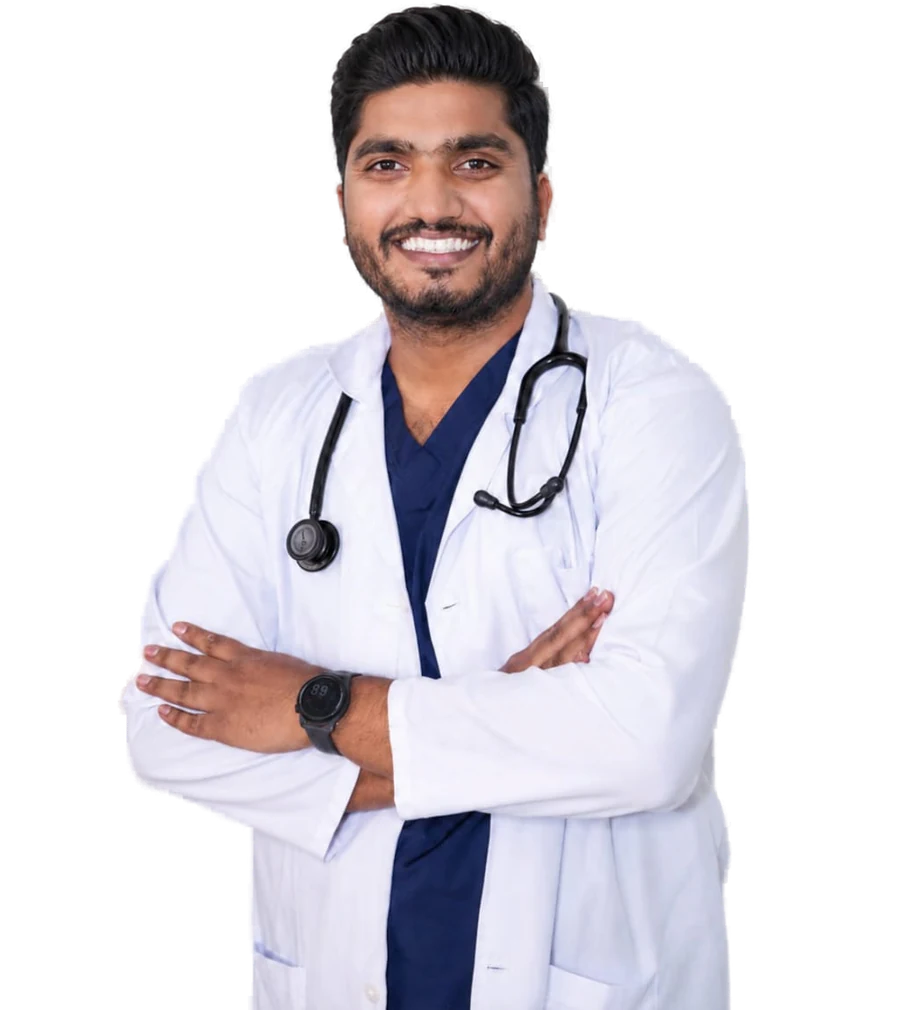
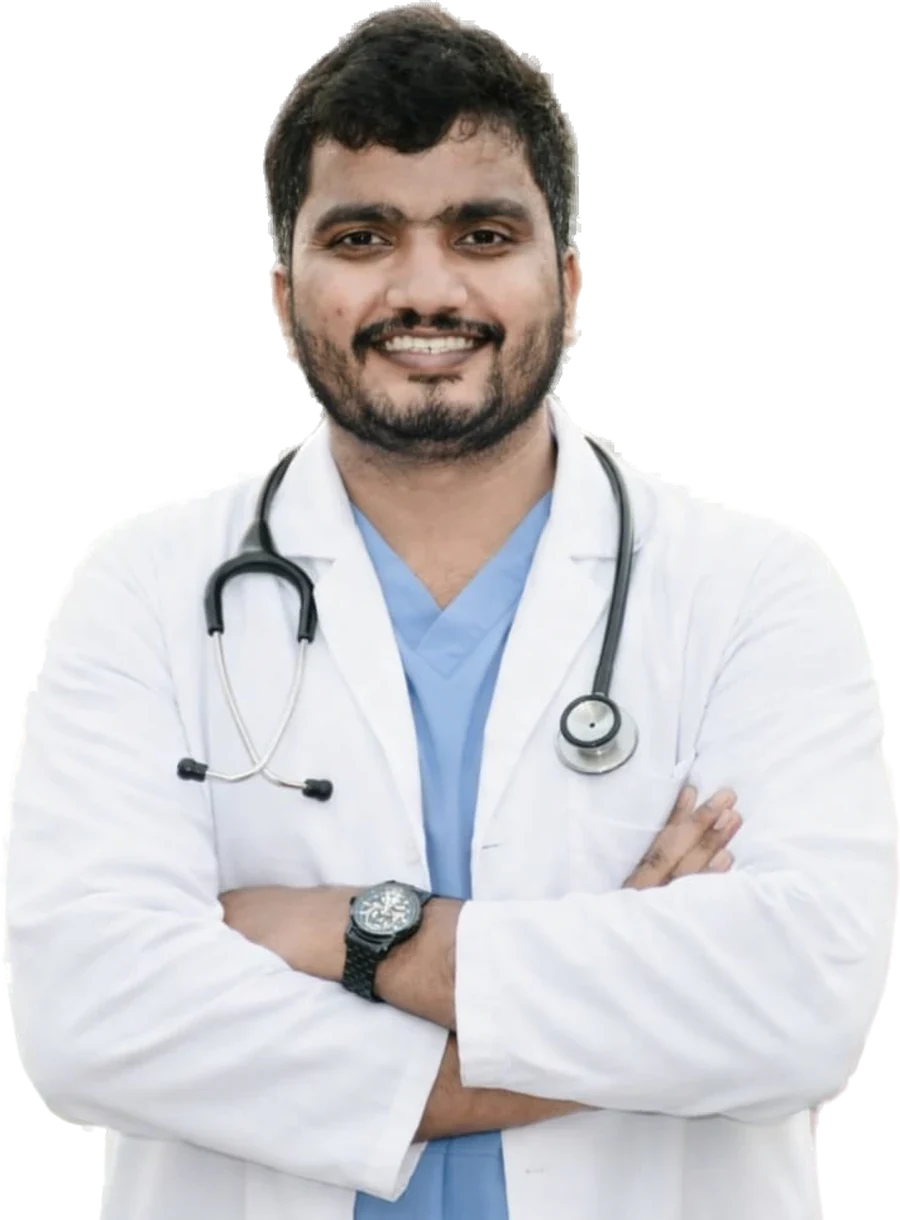
v11

diff --git a/index.html b/index.html
@@ -339,14 +339,14 @@
   @media (min-width: 1024px) and (max-height: 820px) { .hero-facts { display: none; } }
 
   /* Portrait: cut-out photo inside a full-height soft blue panel */
-  .portrait { position: relative; aspect-ratio: 900 / 1010; width: min(100%, 360px); margin-inline: auto; isolation: isolate; }
+  .portrait { position: relative; aspect-ratio: 900 / 1250; width: min(100%, 360px); margin-inline: auto; isolation: isolate; }
   @media (min-width: 640px) { .portrait { width: min(100%, 420px); } }
   @media (min-width: 1024px) { .portrait { width: auto; height: min(60svh, 620px); margin-right: 0; } }
   @media (min-width: 1024px) and (min-height: 960px) { .portrait { height: min(68svh, 760px); } }
   .p-panel { position: absolute; inset: 0; height: 100%; border-radius: 36px; overflow: hidden; z-index: 0;
     background: linear-gradient(165deg, #EEF4FA 0%, #D8E5F2 100%); animation: panelIn .9s cubic-bezier(.2,.8,.2,1) both; }
   .p-panel::before { content: ""; position: absolute; inset: 0; background-image: radial-gradient(rgba(14,42,71,.10) 1.2px, transparent 1.3px); background-size: 18px 18px; -webkit-mask-image: linear-gradient(to bottom, #000 0%, transparent 70%); mask-image: linear-gradient(to bottom, #000 0%, transparent 70%); }
-  .p-img { position: absolute; z-index: 2; left: 50%; bottom: 0; width: 88%; height: auto; transform: translateX(-50%); -webkit-mask-image: linear-gradient(to bottom, #000 88%, transparent 100%); mask-image: linear-gradient(to bottom, #000 88%, transparent 100%); animation: photoUp 1s cubic-bezier(.2,.8,.2,1) .2s both; }
+  .p-img { position: absolute; z-index: 2; left: 50%; bottom: 0; width: 90%; height: auto; transform: translateX(-50%); -webkit-mask-image: linear-gradient(to bottom, #000 88%, transparent 100%); mask-image: linear-gradient(to bottom, #000 88%, transparent 100%); animation: photoUp 1s cubic-bezier(.2,.8,.2,1) .2s both; }
   .p-caption { position: absolute; z-index: 3; left: 14px; right: 14px; bottom: 14px; display: flex; align-items: center; gap: 12px; padding: 10px 14px; border-radius: 20px; background: rgba(255,255,255,.88); -webkit-backdrop-filter: blur(10px); backdrop-filter: blur(10px); box-shadow: 0 14px 30px -18px rgba(14,42,71,.5); animation: fadeUp .7s ease 1s both; }
   .p-caption-icon { width: 38px; height: 38px; flex: none; border-radius: 12px; display: grid; place-items: center; background: var(--heart); color: #fff; }
   @keyframes panelIn { from { opacity: 0; transform: translateY(24px) scale(.97); } to { opacity: 1; transform: none; } }
@@ -425,6 +425,7 @@
   @media (min-width: 768px) { .gallery-grid { columns: 3; column-gap: 16px; } }
   .gallery-grid > * { break-inside: avoid; margin-bottom: 12px; display: block; width: 100%; }
   @media (min-width: 768px) { .gallery-grid > * { margin-bottom: 16px; } }
+  @media (max-width: 767px) { .gallery-tile { column-span: all; } }
 
   /* Heart beat on the logo mark */
   @keyframes beat { 0%, 100% { transform: scale(1); } 14% { transform: scale(1.18); } 28% { transform: scale(1); } 42% { transform: scale(1.12); } 70% { transform: scale(1); } }
@@ -528,7 +529,7 @@
         <div class="order-1 lg:order-2 min-w-0 flex lg:justify-end">
           <div class="portrait">
             <div class="p-panel" aria-hidden="true"></div>
-            <img src="assets/img/dr-akif-ahamad-baig-cardiologist.webp" width="900" height="1010" alt="Dr. Akif Ahamad Baig in a white coat with a stethoscope, arms crossed" class="p-img" fetchpriority="high">
+            <img src="assets/img/dr-akif-ahamad-baig-cardiologist.webp" width="900" height="1220" alt="Dr. Akif Ahamad Baig, Consultant Interventional Cardiologist, in a white coat with a stethoscope" class="p-img" fetchpriority="high">
             <div class="p-caption">
               <span class="p-caption-icon" aria-hidden="true"><svg class="w-5 h-5" viewBox="0 0 24 24" fill="currentColor"><path d="M9.5 3h5v6.5H21v5h-6.5V21h-5v-6.5H3v-5h6.5Z"/></svg></span>
               <span class="min-w-0 leading-tight">
@@ -590,9 +591,9 @@
   <div class="gutter">
     <div class="wrap py-16 md:py-24 grid lg:grid-cols-[.85fr_1.15fr] gap-10 lg:gap-16">
       <figure class="relative max-w-[440px] mx-auto lg:mx-0 w-full self-start">
-        <img src="assets/img/mumbai.webp" width="800" height="1200" loading="lazy" alt="Dr. Akif in Mumbai, where he trained in General Medicine" class="w-full rounded-[24px] object-cover aspect-[4/5] shadow-lift">
+        <img src="assets/img/dr-akif-cath-lab.webp" width="900" height="1350" loading="lazy" alt="Dr. Akif Ahamad Baig, cardiologist in Guntur" class="w-full rounded-[24px] object-cover object-top aspect-[4/5] shadow-lift">
         <figcaption class="absolute bottom-4 left-4 right-4 bg-white/95 backdrop-blur rounded-xl px-4 py-3 text-sm">
-          <span class="font-bold">Mumbai.</span> <span class="text-ink-500">Three years of General Medicine at P. D. Hinduja National Hospital.</span>
+          <span class="font-bold">Dr. Akif Ahamad Baig.</span> <span class="text-ink-500">MBBS, DNB (General Medicine), DM (Cardiology).</span>
         </figcaption>
       </figure>
 
@@ -695,7 +696,7 @@
       <div class="min-w-0 lg:sticky lg:top-28">
         <h2 class="font-display font-semibold text-[32px] sm:text-[44px] leading-[1.1] tracking-[-0.01em]">What he treats</h2>
         <p class="mt-4 text-[17px] text-ink-500 max-w-[48ch]">From a first ECG to a complex stent, these are the tests and procedures he does. Tap any one to see what it means for a patient.</p>
-        <img src="assets/img/clinic-arms.webp" width="900" height="1488" loading="lazy" alt="Dr. Akif in scrubs and a surgical cap, arms crossed" class="hidden lg:block mt-8 w-[78%] rounded-[24px] object-cover aspect-[4/5] object-top shadow-lift">
+        <img src="assets/img/hero-portrait.webp" width="900" height="1125" loading="lazy" alt="Dr. Akif Ahamad Baig in a white coat with a stethoscope" class="hidden lg:block mt-8 w-[78%] rounded-[24px] object-cover aspect-[4/5] object-top shadow-lift">
       </div>
 
       <div class="min-w-0 grid gap-3" id="expertiseList">
@@ -806,7 +807,7 @@
 
       <!-- Lead card -->
       <div class="mt-10 grid md:grid-cols-[280px_1fr] gap-6 bg-white rounded-[24px] p-4 sm:p-5 items-center">
-        <img src="assets/img/full-length.webp" width="900" height="1440" loading="lazy" alt="Dr. Akif standing in scrubs and a white coat" class="w-full h-[300px] md:h-[320px] object-cover object-top rounded-[18px] bg-mist">
+        <img src="assets/img/mumbai.webp" width="800" height="1200" loading="lazy" alt="Dr. Akif Ahamad Baig in a white coat" class="w-full h-[300px] md:h-[320px] object-cover object-top rounded-[18px] bg-mist">
         <div class="min-w-0 p-1 sm:p-3">
           <div class="text-sm font-bold text-heart">Founder and head</div>
           <div class="font-display text-3xl font-semibold mt-1">Dr. Akif Ahamad Baig</div>

diff --git a/assets/js/main.js b/assets/js/main.js
@@ -16,6 +16,9 @@ const CONFIG = {
   altPhoneDisplay: '+91 93817 40718',
   altPhoneTel: '+919381740718',
   whatsapp: '919381740718',          // country code + number, no "+" or spaces
+  // Visit counter: same endpoint the Flutter apps use
+  trackVisitApi: 'https://api.chandus7.in/api/track-visit/',
+  appName: 'Dr Akif Website',
   // Django endpoint that saves appointment requests (see backend/ folder)
   bookingApi: 'https://api.chandus7.in/api/akif/appointments/',
   mapUrl: 'https://www.google.com/maps/search/?api=1&query=Aaira+Heart+%26+Polyclinic+Anandapet+Ponnur+Road+Guntur',
@@ -74,7 +77,7 @@ const VENTURES = [
       { name: 'Dr. Sheikh Reshma', role: 'MD, Pulmonology' },
     ],
     clinic: true,
-    photo: 'assets/img/clinic-arms.webp',
+    photo: 'assets/img/dr-akif-cath-lab.webp',
   },
   {
     id: 'infumedz',
@@ -247,12 +250,9 @@ const TEAM = [
 //   { src: 'assets/img/aaira-reception.webp', w: 1200, h: 900, cap: 'Reception, Aaira Heart & Polyclinic' },
 // To remove a photo from the gallery: delete its line (or put // in front of it).
 const GALLERY = [
-  { src: 'assets/img/hero-portrait.webp', w: 900, h: 1125, cap: 'Studio portrait' },                  // 1
-  { src: 'assets/img/clinic-arms.webp', w: 900, h: 1488, cap: 'Ready for the cath lab' },            // 2
-  { src: 'assets/img/mumbai.webp', w: 800, h: 1200, cap: 'Mumbai, during his DNB years' },           // 3
-  { src: 'assets/img/og-banner.webp', w: 1200, h: 900, cap: 'Consultant Interventional Cardiologist' }, // 4
-  { src: 'assets/img/clinic-smile.webp', w: 900, h: 1488, cap: 'At the clinic' },                    // 5
-  { src: 'assets/img/full-length.webp', w: 900, h: 1440, cap: 'Between rounds' },                    // 6
+  { src: 'assets/img/mumbai.webp', w: 800, h: 1200, cap: 'Mumbai, during his DNB years' },        // 1
+  { src: 'assets/img/dr-akif-cath-lab.webp', w: 900, h: 1350, cap: 'Ready for the cath lab' },   // 2
+  { src: 'assets/img/hero-portrait.webp', w: 900, h: 1125, cap: 'Studio portrait' },             // 3
 ];
 
 /* ---------------------------------------------------------------------
@@ -263,6 +263,27 @@ const $$ = (s, el = document) => [...el.querySelectorAll(s)];
 const esc = (s) => String(s).replace(/[&<>"']/g, (c) => ({ '&': '&amp;', '<': '&lt;', '>': '&gt;', '"': '&quot;', "'": '&#39;' }[c]));
 const reduceMotion = window.matchMedia('(prefers-reduced-motion: reduce)').matches;
 const isExternal = (href) => /^https?:/.test(href);
+
+
+/* ---------------------------------------------------------------------
+   VISIT TRACKING: one POST each time the website opens
+   (same as trackAppVisit() in the Flutter apps)
+   --------------------------------------------------------------------- */
+(function trackVisit() {
+  if (!/^https?:$/.test(location.protocol)) return;          // skip file:// tests
+  if (/^(localhost|127\.0\.0\.1)$/.test(location.hostname)) return; // skip local tests
+  try {
+    const ctrl = 'AbortController' in window ? new AbortController() : null;
+    if (ctrl) setTimeout(() => ctrl.abort(), 10000);          // 10 s timeout
+    fetch(CONFIG.trackVisitApi, {
+      method: 'POST',
+      headers: { 'Content-Type': 'application/json' },
+      body: JSON.stringify({ app_name: CONFIG.appName }),
+      keepalive: true,
+      signal: ctrl ? ctrl.signal : undefined,
+    }).catch(() => {});
+  } catch (_) { /* never break the page */ }
+})();
 
 /* ---------------------------------------------------------------------
    HEADER: mobile menu + active section
@@ -846,7 +867,7 @@ const isExternal = (href) => /^https?:/.test(href);
 (function gallery() {
   const grid = $('#galleryGrid');
   const clinicTile = `
-    <div class="relative overflow-hidden rounded-2xl bg-ink text-white p-6 sm:p-7">
+    <div class="gallery-tile relative overflow-hidden rounded-2xl bg-ink text-white p-6 sm:p-7">
       <div class="absolute -right-10 -top-10 w-40 h-40 rounded-full border-[18px] border-heart/40" aria-hidden="true"></div>
       <div class="relative">
         <div class="text-sm font-bold text-[#F3A6B2]">The clinic</div>
@@ -858,6 +879,9 @@ const isExternal = (href) => /^https?:/.test(href);
         </div>
       </div>
     </div>`;
+  const total = GALLERY.length + 1;
+  grid.style.columns = window.matchMedia('(min-width: 768px)').matches ? String(Math.min(3, total)) : (total > 2 ? '2' : '1');
+  if (total <= 3) grid.style.maxWidth = total === 2 ? '820px' : '';
   grid.innerHTML = clinicTile + GALLERY.map((g, i) => `
     <button class="group relative overflow-hidden rounded-2xl bg-mist text-left" data-i="${i}" aria-label="View photo: ${esc(g.cap)}">
       <img src="${g.src}" width="${g.w}" height="${g.h}" loading="lazy" alt="${esc(g.cap)}" class="w-full h-auto block transition-transform duration-500 group-hover:scale-[1.03]">
